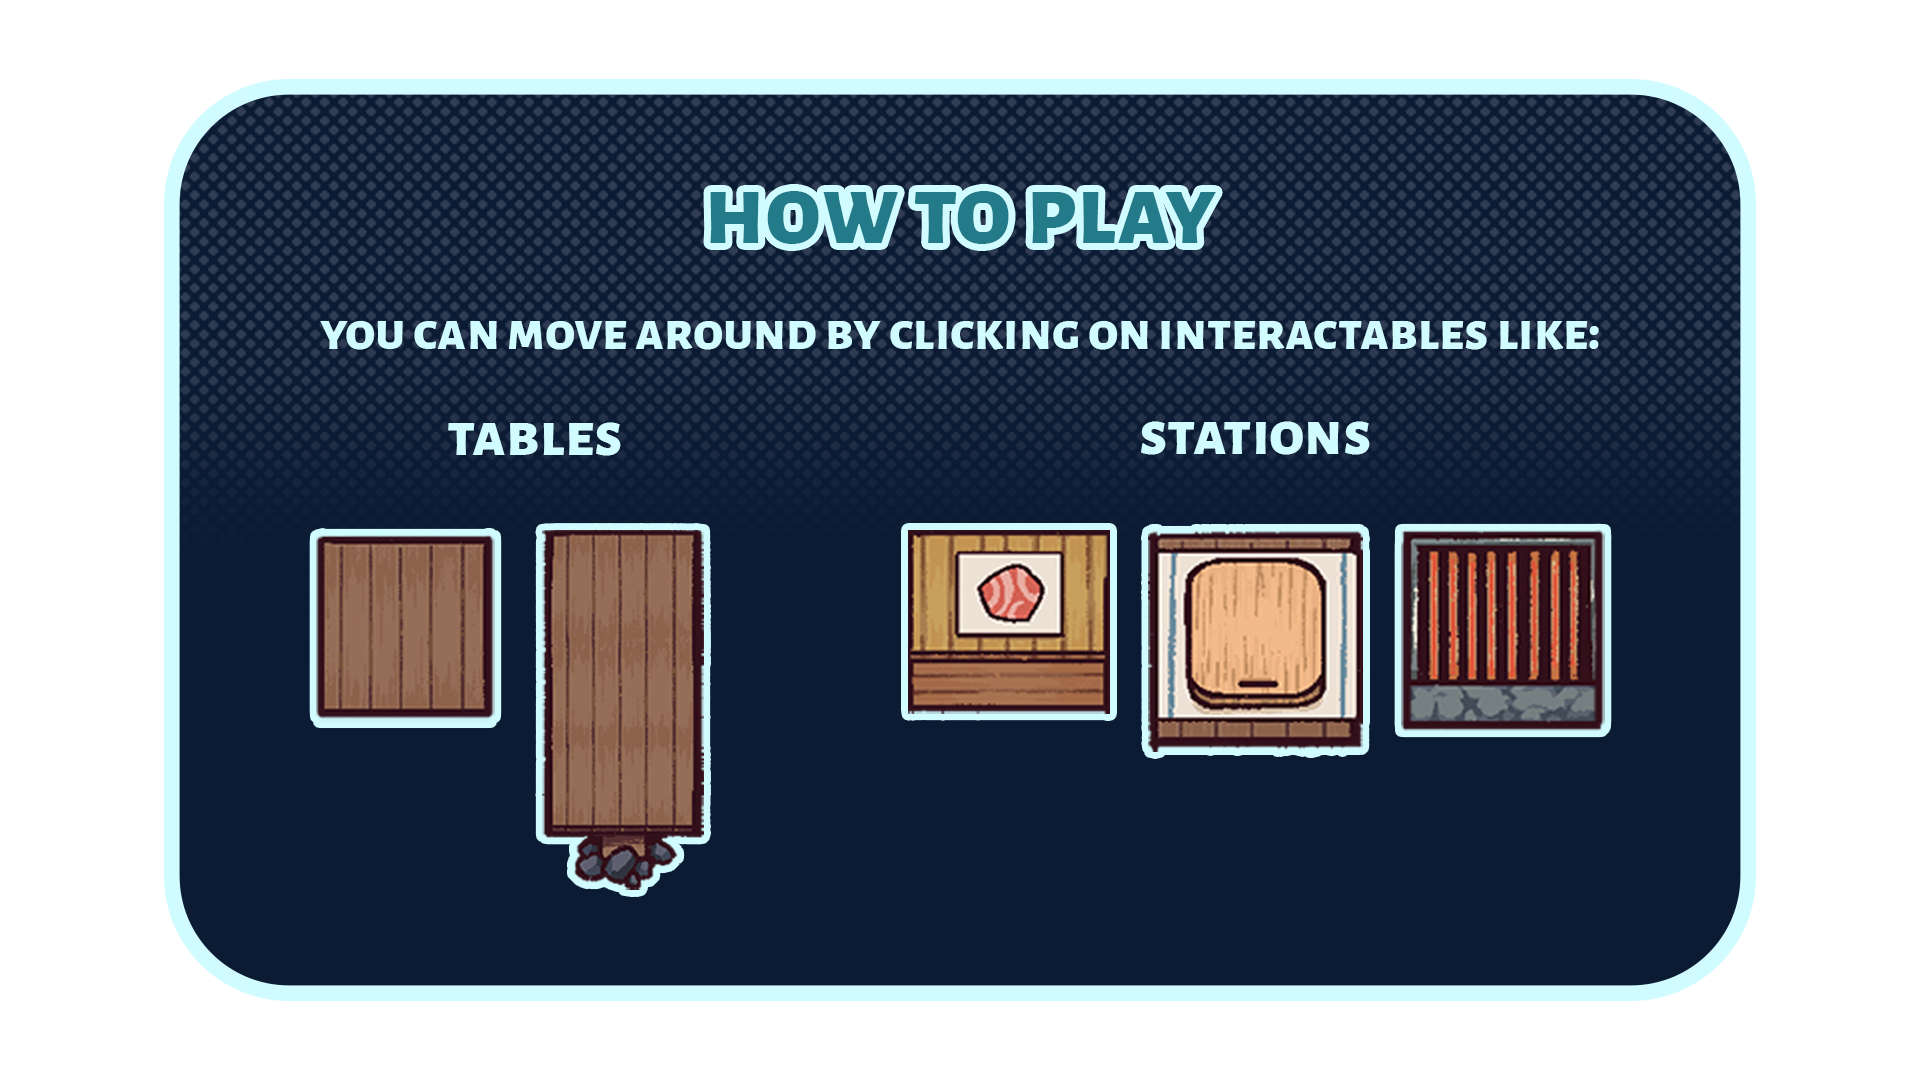
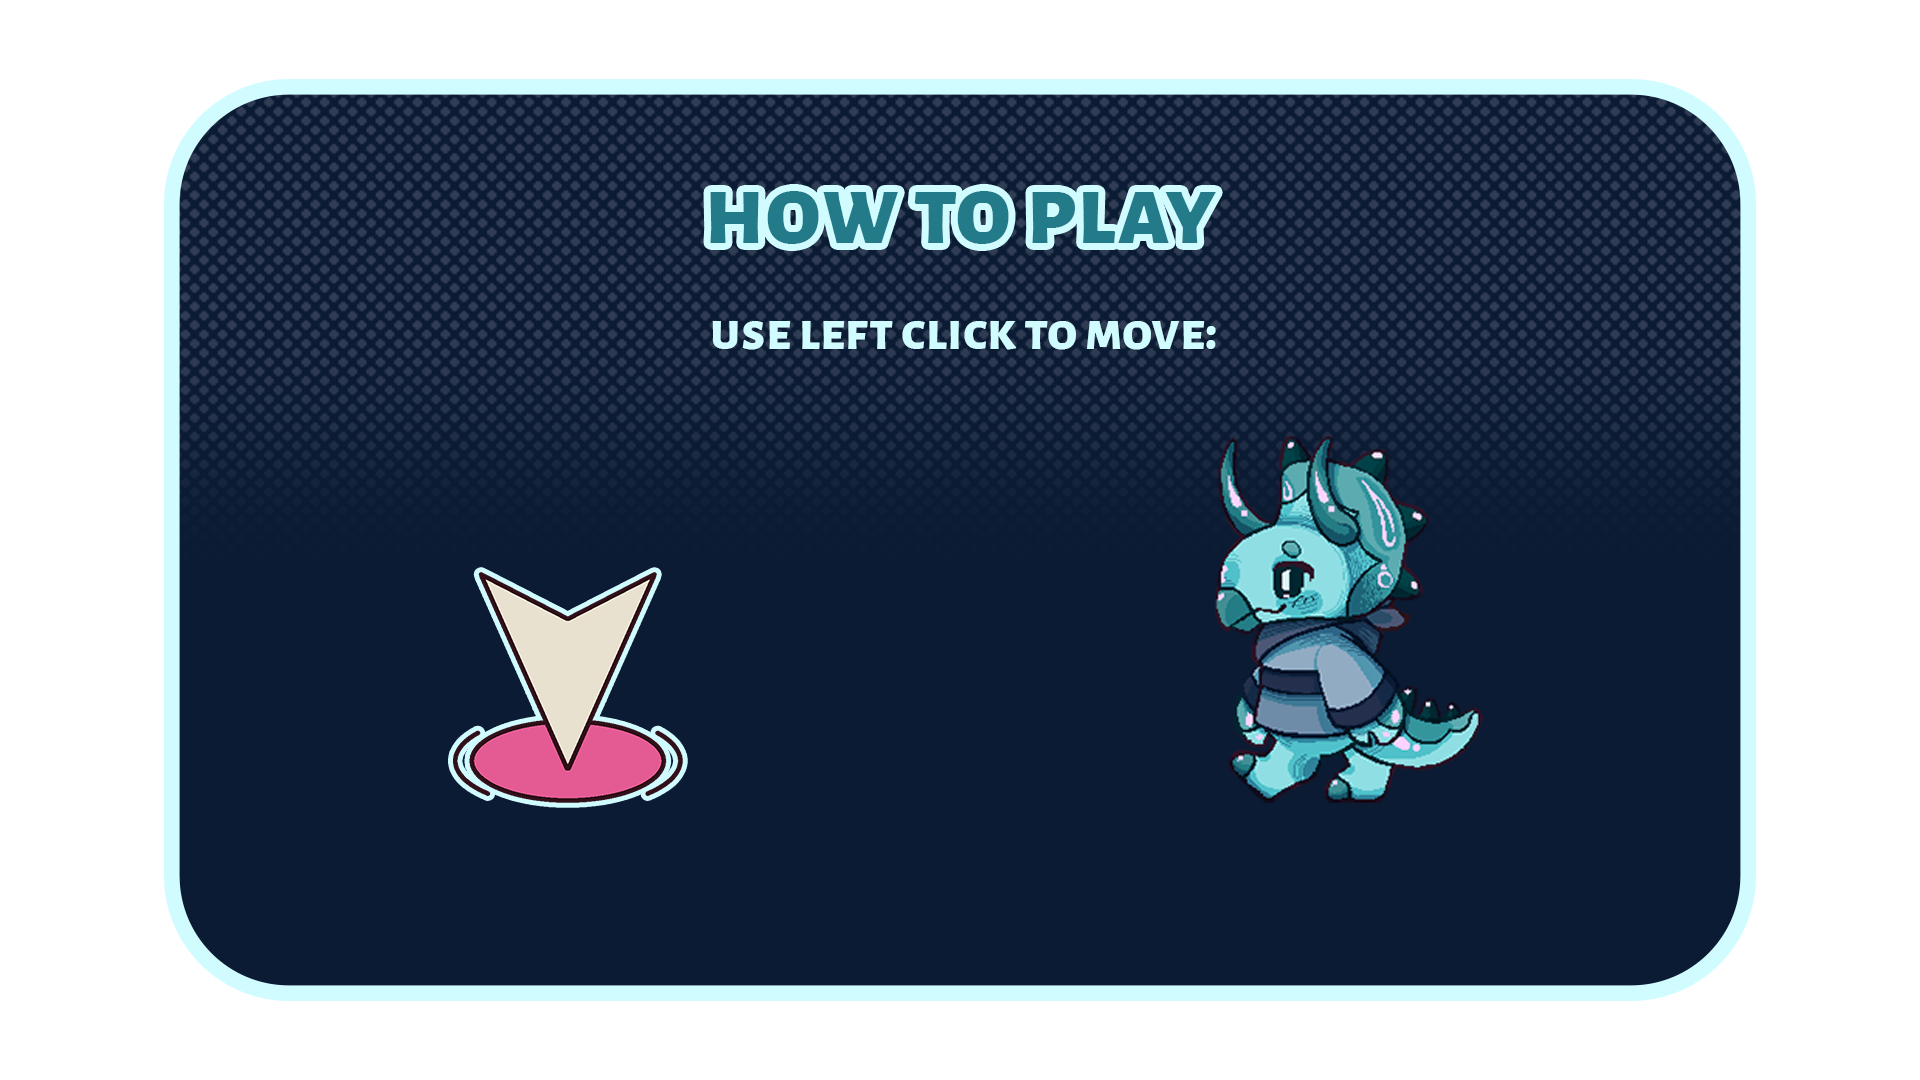
Updated how to play

diff --git a/MyoonchiDiner/GameCore/HowToPlayButtonLogic.cpp b/MyoonchiDiner/GameCore/HowToPlayButtonLogic.cpp
@@ -10,8 +10,8 @@
  DESCRIPTION:       Handles hover and click behaviour for the How To Play
 					button in the main menu. On click, it spawns a fullscreen
 					HowToPlay overlay image with a top-right Next button.
-					Clicking Next advances through 3 pages, then closes the overlay.
-					Esc also closes the overlay.
+					Clicking Next advances through the authored how-to-play pages,
+					then closes the overlay. Esc also closes the overlay.
 
 		All content © 2026 DigiPen Institute of Technology Singapore. All rights reserved.
  ----------------------------------------------------------------------------------------------------
@@ -29,10 +29,11 @@
 #include "MyoonchiDiner/GamePaths.hpp"
 
 namespace {
-	static constexpr std::array<const char*, 3> kHowToPlayPages{
+	static constexpr std::array<const char*, 4> kHowToPlayPages{
 		"../assets/HowToPlay/howtoplay_1.png",
 		"../assets/HowToPlay/howtoplay_2.png",
-		"../assets/HowToPlay/howtoplay_3.png"
+		"../assets/HowToPlay/howtoplay_3.png",
+		"../assets/HowToPlay/howtoplay_4.png"
 	};
 
 	static constexpr const char* kNextButtonTexNormal = "../assets/HowToPlay/next_s.png";
